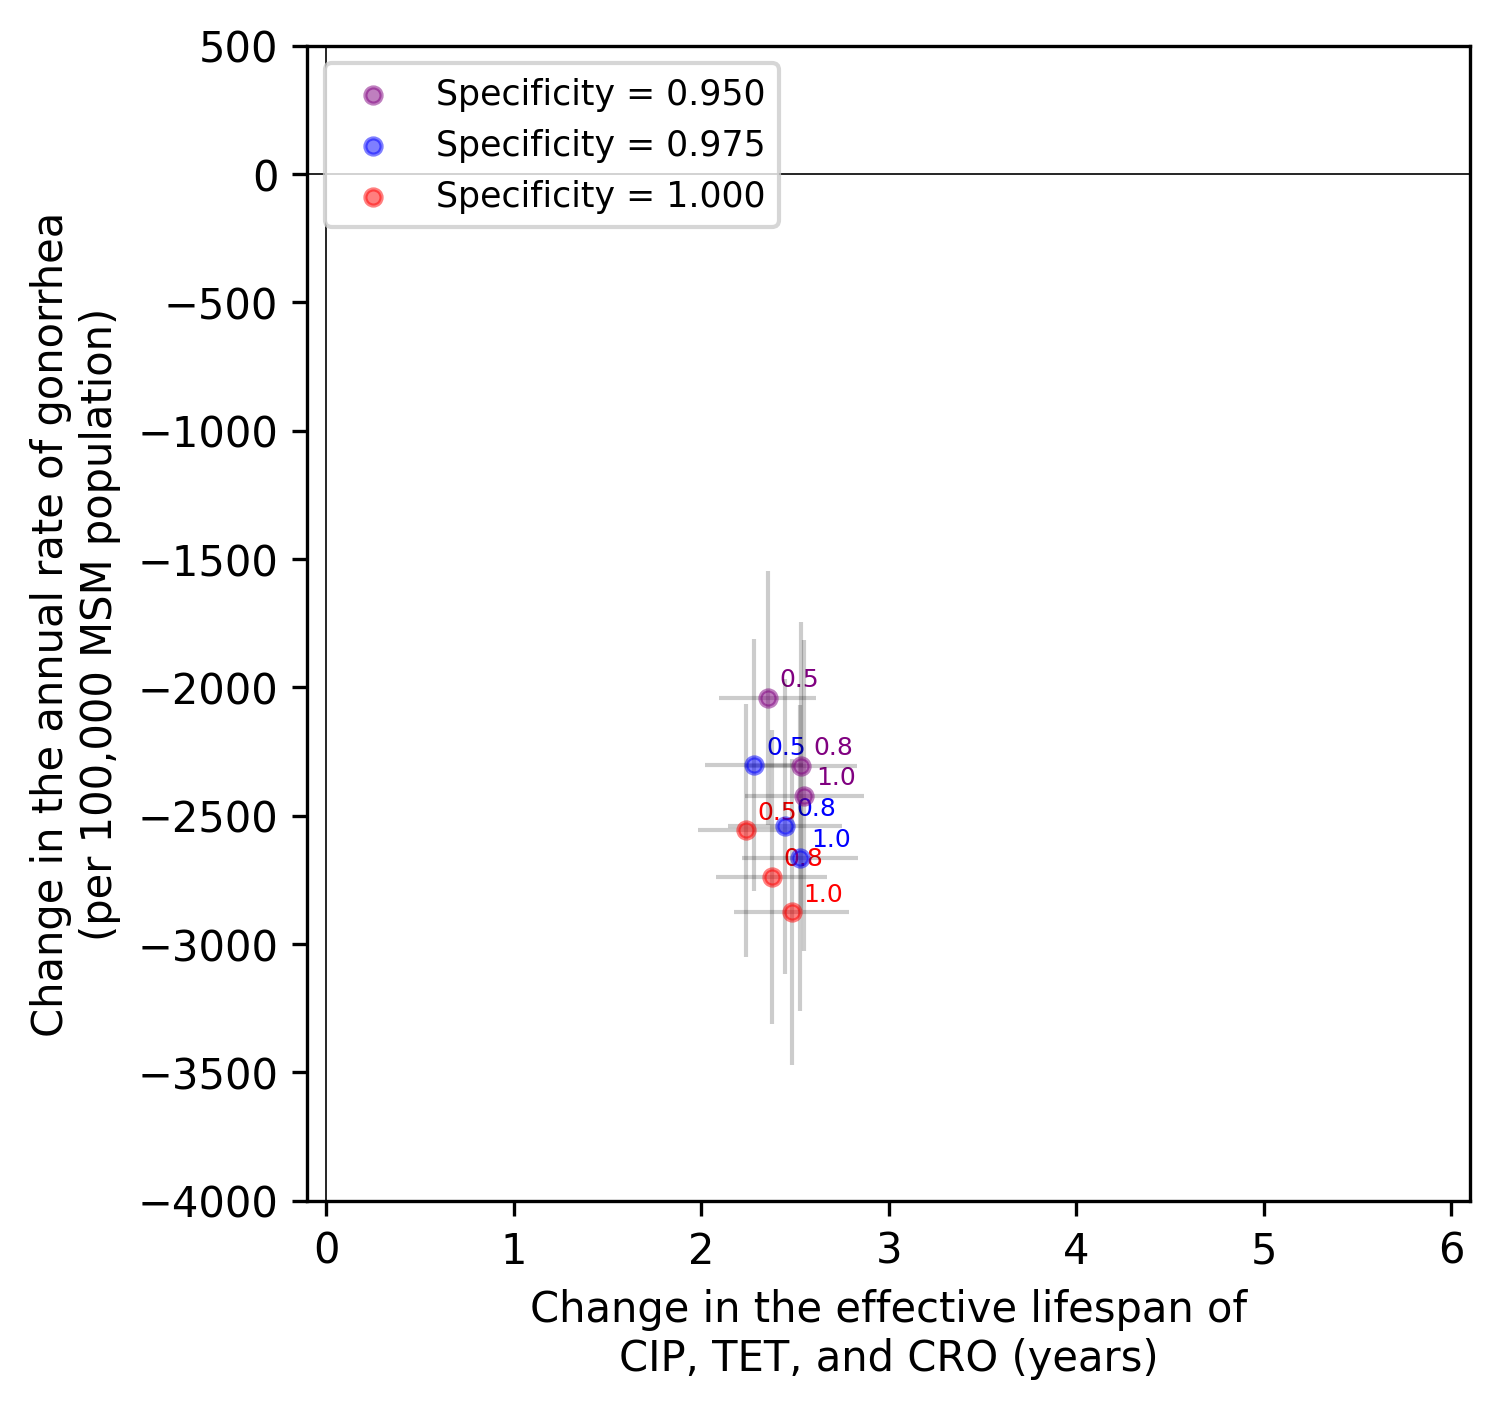
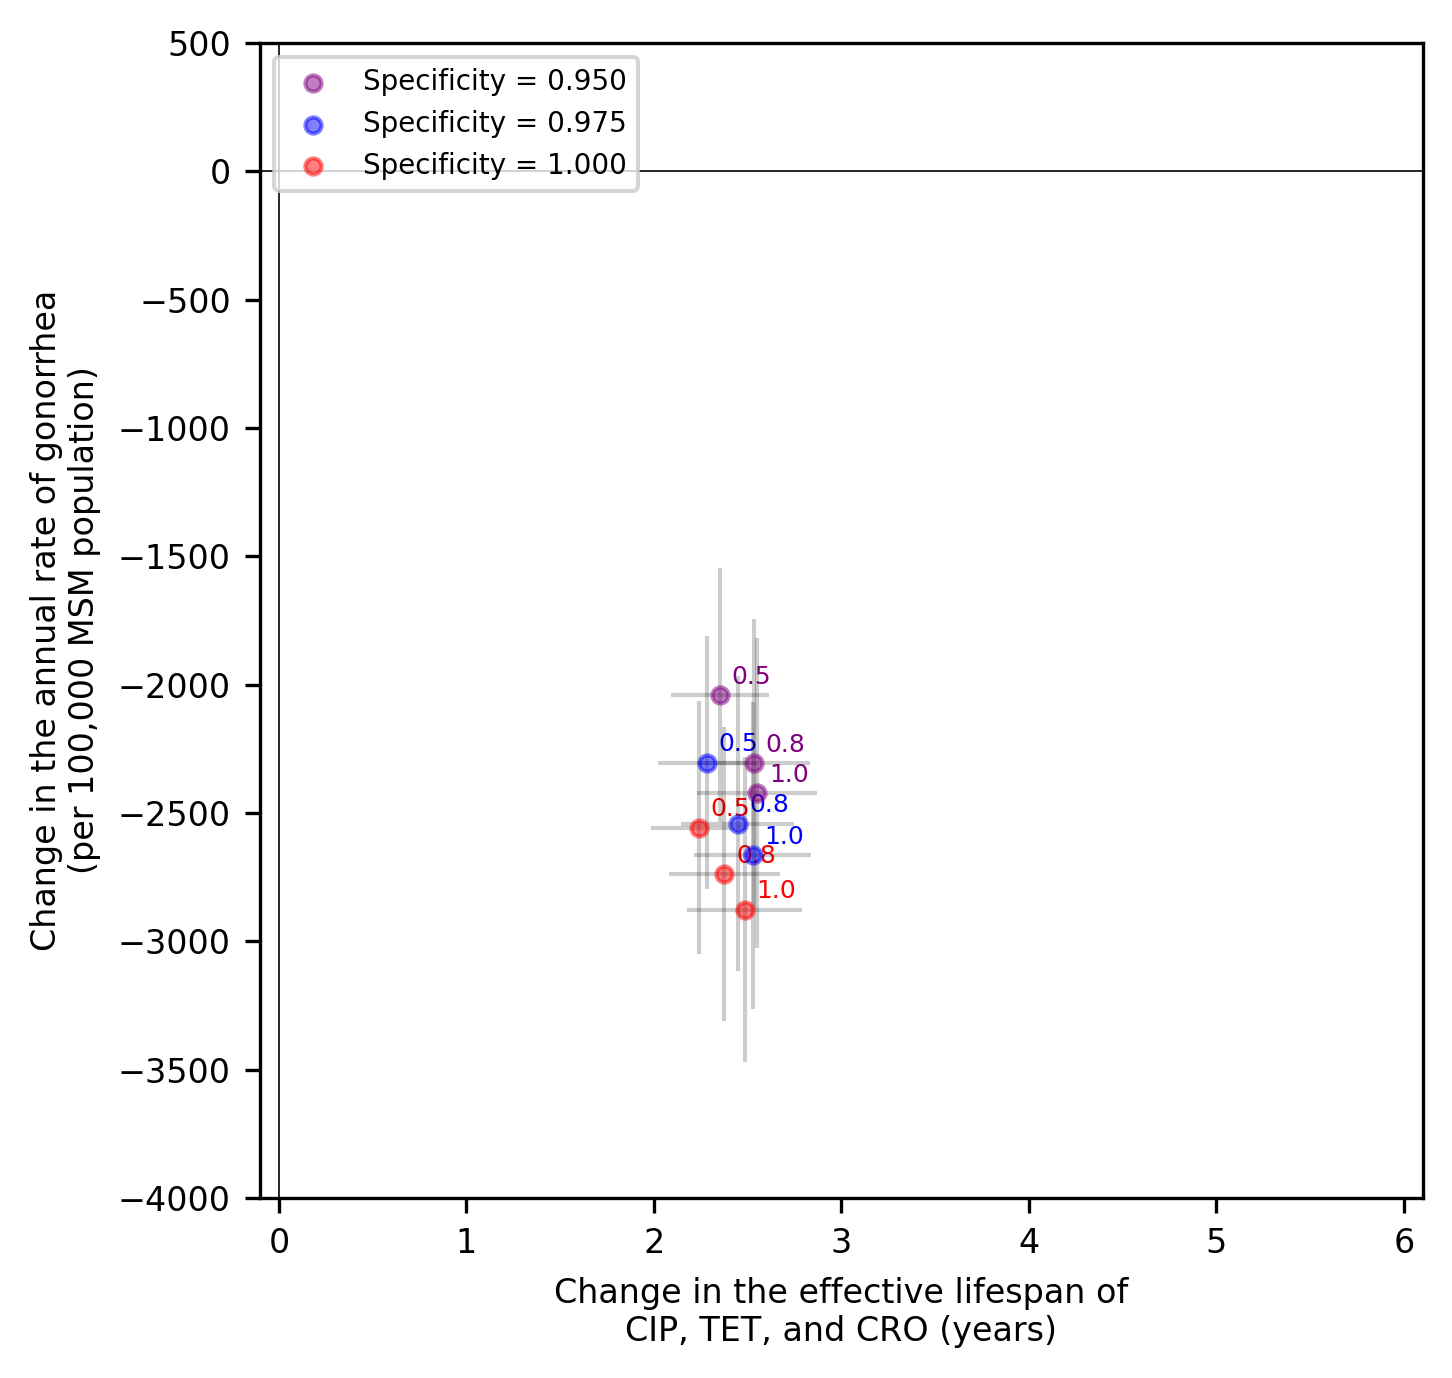
smdm

diff --git a/model/Plots.py b/model/Plots.py
@@ -271,16 +271,42 @@ def export_summary_of_scenarios(if_m_available_for_1st_tx):
     write_csv(rows=rows, file_name=csv_file_summary)
 
 
-def get_scenarios_csv_filename_and_fig_filename(if_m_available_for_1st_tx, test_coverage):
+def get_scenarios_csv_filename_and_fig_filename(if_m_available_for_1st_tx, test_coverage=None):
 
     if if_m_available_for_1st_tx:
-        fig_file_name = 'figures/SA-with M-coverage {:.2f}.png'.format(test_coverage)
+        if test_coverage is not None:
+            fig_file_name = 'figures/SA-with M-coverage {:.2f}.png'.format(test_coverage)
+        else:
+            fig_file_name = 'figures/SA-with M-coverage.png'
+
         csv_file_name = 'outputs-with-M/scenarios/simulated_scenarios.csv'
     else:
-        fig_file_name = 'figures/SA-no M-coverage {:.2f}.png'.format(test_coverage)
+        if test_coverage is not None:
+            fig_file_name = 'figures/SA-no M-coverage {:.2f}.png'.format(test_coverage)
+        else:
+            fig_file_name = 'figures/SA-no M-coverage.png'
+
         csv_file_name = 'outputs-no-M/scenarios/simulated_scenarios.csv'
 
     return csv_file_name, fig_file_name
+
+
+def get_scenarios_with_spec_cov(scenarios_df, i, spec, test_coverage):
+
+    return S.SetOfScenarios(
+        name='Specificity = {:.3f}'.format(spec),
+        scenario_df=scenarios_df,
+        color=COLORS[i],
+        marker='o',
+        conditions_on_variables=[
+            S.ConditionOnVariable(var_name='sensitivity', if_included_in_label=True, label_format='{:.1f}'),
+            S.ConditionOnVariable(var_name='specificity', values=[spec]),
+            S.ConditionOnVariable(var_name='rapid test coverage', values=[test_coverage])
+        ],
+        if_find_frontier=False,
+        if_show_fitted_curve=False,
+        labels_shift_x=0.01,
+        labels_shift_y=0.01)
 
 
 def plot_scenarios(csv_file_name, fig_file_name, test_coverage, x_range, y_range, print_all_scenarios=False):
@@ -302,20 +328,8 @@ def plot_scenarios(csv_file_name, fig_file_name, test_coverage, x_range, y_range
     list_of_scenario_sets = []
 
     for i, spec in enumerate(SPE_VALUES):
-        list_of_scenario_sets.append(S.SetOfScenarios(
-            name='Specificity = {:.3f}'.format(spec),
-            scenario_df=scenarios_df,
-            color=COLORS[i],
-            marker='o',
-            conditions_on_variables=[
-                S.ConditionOnVariable(var_name='sensitivity', if_included_in_label=True, label_format='{:.1f}'),
-                S.ConditionOnVariable(var_name='specificity', values=[spec]),
-                S.ConditionOnVariable(var_name='rapid test coverage', values=[test_coverage])
-            ],
-            if_find_frontier=False,
-            if_show_fitted_curve=False,
-            labels_shift_x=0.01,
-            labels_shift_y=0.01)
+        list_of_scenario_sets.append(
+            get_scenarios_with_spec_cov(scenarios_df=scenarios_df, i=i, spec=spec, test_coverage=test_coverage)
         )
 
     V.plot_sets_of_scenarios(
@@ -335,3 +349,36 @@ def plot_scenarios(csv_file_name, fig_file_name, test_coverage, x_range, y_range
         fig_size=(5, 5))
 
 
+def plot_scenario_sa(csv_file_name, fig_file_name, x_range=None, y_range=None, l_b_r_t=None, fig_size=None):
+
+    # read scenarios into a dataframe
+    scenarios_df = S.ScenarioDataFrame(csv_file_name=csv_file_name)
+
+    list_list_series = []
+    list_of_titles = []
+    for c in COVERAGE_VALUES:
+        list_of_titles.append('Test Coverage {:.0%}'.format(c))
+        list_of_scenario_sets = []
+        for i, spec in enumerate(SPE_VALUES):
+            list_of_scenario_sets.append(
+                get_scenarios_with_spec_cov(scenarios_df=scenarios_df, i=i, spec=spec, test_coverage=c)
+            )
+        list_list_series.append(list_of_scenario_sets)
+
+    V.multi_plot_series(
+        list_list_series=list_list_series,
+        list_of_titles=list_of_titles,
+        name_of_base_scenario='Status quo (no rapid test)',
+        list_if_remove_base_scenario=[True] * len(SPE_VALUES),
+        effect_outcome='Proportion of cases treated with CIP, TET, or CRO (average incidence after epidemic warm-up)',
+        cost_outcome='Rate of gonorrhea cases (average incidence after epidemic warm-up)',
+        x_range=x_range,
+        y_range=y_range,
+        labels=('Change in the effective lifespan of ciprofloxacin, tetracycline, and ceftriaxone (years)',
+                'Change in the annual rate of gonorrhea\n(per 100,000 MSM population)'),
+        cost_multiplier=100000,
+        effect_multiplier=SIM_DURATION,
+        fig_size=fig_size,
+        l_b_r_t=l_b_r_t,
+        file_name=fig_file_name
+    )

diff --git a/analysis/PlotScenarios.py b/analysis/PlotScenarios.py
@@ -1,5 +1,6 @@
 from definitions import COVERAGE_VALUES
-from model.Plots import plot_scenarios, get_scenarios_csv_filename_and_fig_filename, export_summary_of_scenarios
+from model.Plots import plot_scenarios, plot_scenario_sa, \
+    get_scenarios_csv_filename_and_fig_filename, export_summary_of_scenarios
 
 IF_M_AVAILABLE_FOR_FIRST_TX = True
 TEST_COVERAGE = 0.75
@@ -9,7 +10,7 @@ X_RANGE_NO_M = [-0.1, 6.1]
 Y_RANGE_NO_M = [-4000, 500]
 
 
-def plot_scenarios_for_a_text_coverage(if_m_available_for_1st_tx, test_coverage):
+def plot_scenarios_for_a_test_coverage(if_m_available_for_1st_tx, test_coverage):
 
     # get the filename of csv file where the scenario analysis and the
     # figure name which the figure for the scenario analysis should be saved as
@@ -32,6 +33,26 @@ def plot_scenarios_for_a_text_coverage(if_m_available_for_1st_tx, test_coverage)
         y_range=y_range)
 
 
+def plot_scenarios_sa(if_m_available_for_1st_tx):
+
+    # get the filename of csv file where the scenario analysis and the
+    # figure name which the figure for the scenario analysis should be saved as
+    csv_file_name, fig_file_name = get_scenarios_csv_filename_and_fig_filename(
+        if_m_available_for_1st_tx=if_m_available_for_1st_tx)
+
+    if if_m_available_for_1st_tx:
+        x_range = X_RANGE_WITH_M
+        y_range = Y_RANGE_WITH_M
+    else:
+        x_range = X_RANGE_NO_M
+        y_range = Y_RANGE_NO_M
+
+    plot_scenario_sa(csv_file_name=csv_file_name, fig_file_name=fig_file_name,
+                     x_range=x_range, y_range=y_range,
+                     l_b_r_t=(0.1, 0.15, 0.97, 0.9),
+                     fig_size=(8, 3.5))
+
+
 if __name__ == "__main__":
 
     for m in (True, False):
@@ -39,10 +60,12 @@ if __name__ == "__main__":
         # export summary
         export_summary_of_scenarios(if_m_available_for_1st_tx=m)
 
-        for c in COVERAGE_VALUES:
+        # 3 panel figure
+        plot_scenarios_sa(if_m_available_for_1st_tx=m)
 
+        for c in COVERAGE_VALUES:
             # plot
-            plot_scenarios_for_a_text_coverage(
+            plot_scenarios_for_a_test_coverage(
                 if_m_available_for_1st_tx=m,
                 test_coverage=c)
 
